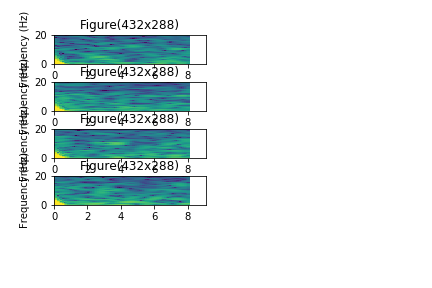
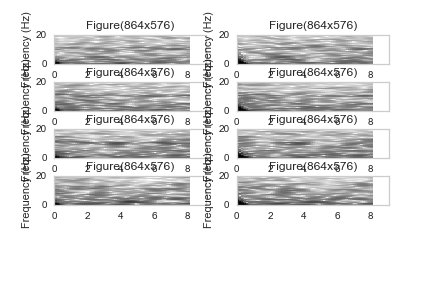
fix main ML, added figures script, model

diff --git a/offline/visualization/inspect.py b/offline/visualization/inspect.py
@@ -70,25 +70,17 @@ for direction, data in all_data.items():
     idx = 0
     for spec in right:
         idx += 1
-        plt.subplot(num_rows, 2, idx * 2 - 1)
+        plt.subplot(num_rows, 2, idx * 2)
         draw_spectral_content(f, spec, fig)
     plt.savefig(figname)
 
     fig = plt.figure('av_spec_' + csv.split('.')[0])
     plt.subplot(3, 2, num)
-    draw_spectral_content(
-        f,
-        np.mean(
-            prepro.resize_max(left),
-            axis=0),
-        title=direction + ", channel 1-4")
+    draw_spectral_content(f, np.mean(prepro.resize_max(left), axis=0),
+                          title=direction + ", channel 1-4")
     plt.subplot(3, 2, num + 1)
-    draw_spectral_content(
-        f,
-        np.mean(
-            prepro.resize_max(right),
-            axis=0),
-        title=direction + ", channel 5-8")
+    draw_spectral_content(f, np.mean(prepro.resize_max(right), axis=0),
+                          title=direction + ", channel 5-8")
     num += 2
 
     figname = direction + '_mu_' + csv.split('.')[0]

diff --git a/src/real-time/real_time_ML.py b/src/real-time/real_time_ML.py
@@ -9,10 +9,11 @@ import random
 sio = socketio.Client()
 
 buffer_data = []
-with open('../offline/model.pkl', 'rb') as fid:
+with open('model.pkl', 'rb') as fid:
     clf = pickle.load(fid)
 print("STARTING")
 
+# starting state of wheelchair
 wheelchair_state = "stop"
 
 # configs
@@ -27,7 +28,7 @@ distance_from_artifact = int(distance_from_artifact_s/pred_frequency)
 blink_threshold = int(blink_threshold_s/pred_frequency)
 change_threshold = int(change_threshold_s/pred_frequency)
 decision = int(decision_s/pred_frequency)
-clear_threshold = int(1/pred_frequency)                                 # the minimum number of windows within the decision span that must be clear to be considered a 'turn' signal
+clear_threshold = int(1/pred_frequency)     # the minimum number of windows within the decision span that must be clear to be considered a 'turn' signal
 
 # counters
 last_artifact = 0

diff --git a/offline/ML/main.py b/offline/ML/main.py
@@ -161,6 +161,7 @@ def to_feature_vec(all_features, rest=False):
 
 
 def normalize(features_dict):
+    """ Divide features by mean per channel """
     all_features = to_feature_vec(features_dict, rest=True)
     av = list(np.mean(all_features, axis=0))
     mean_coeff = np.array([el/sum(av[:-1]) for el in av[:-1]])
